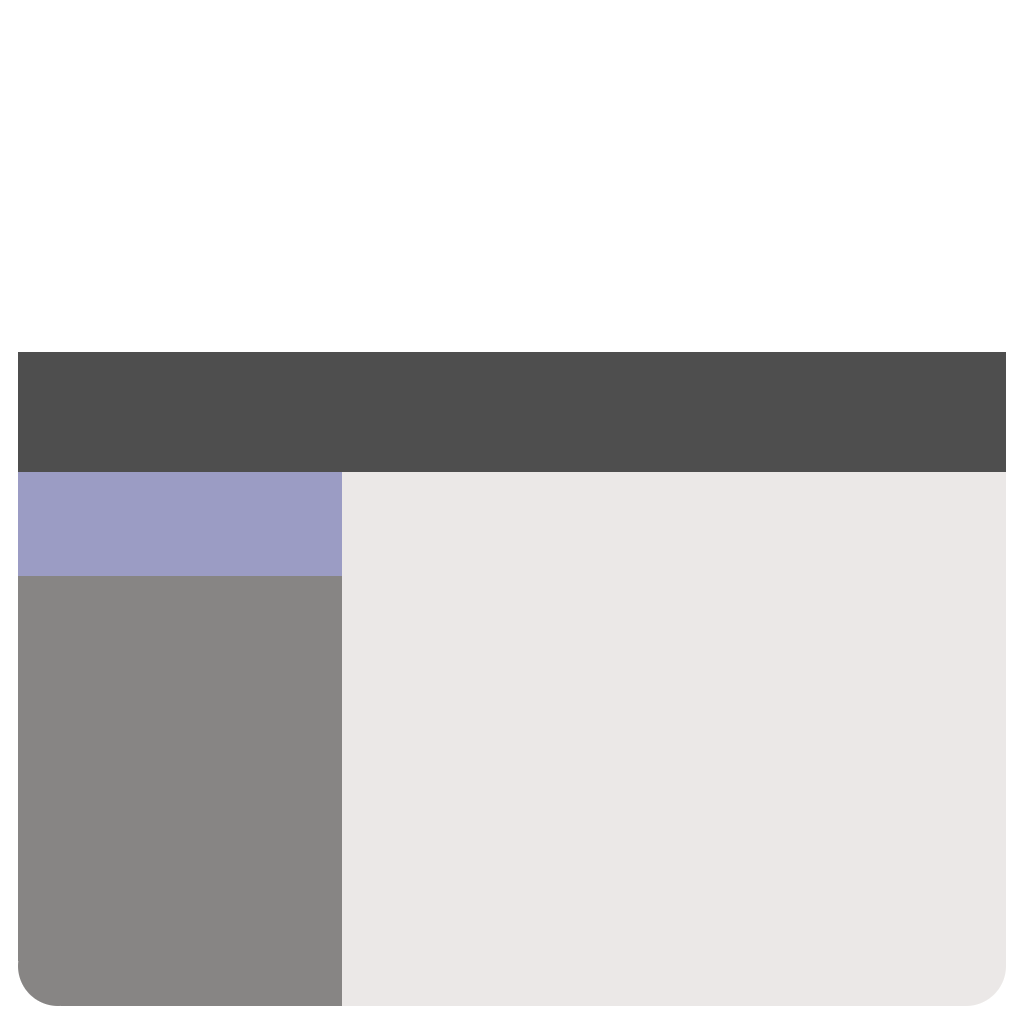
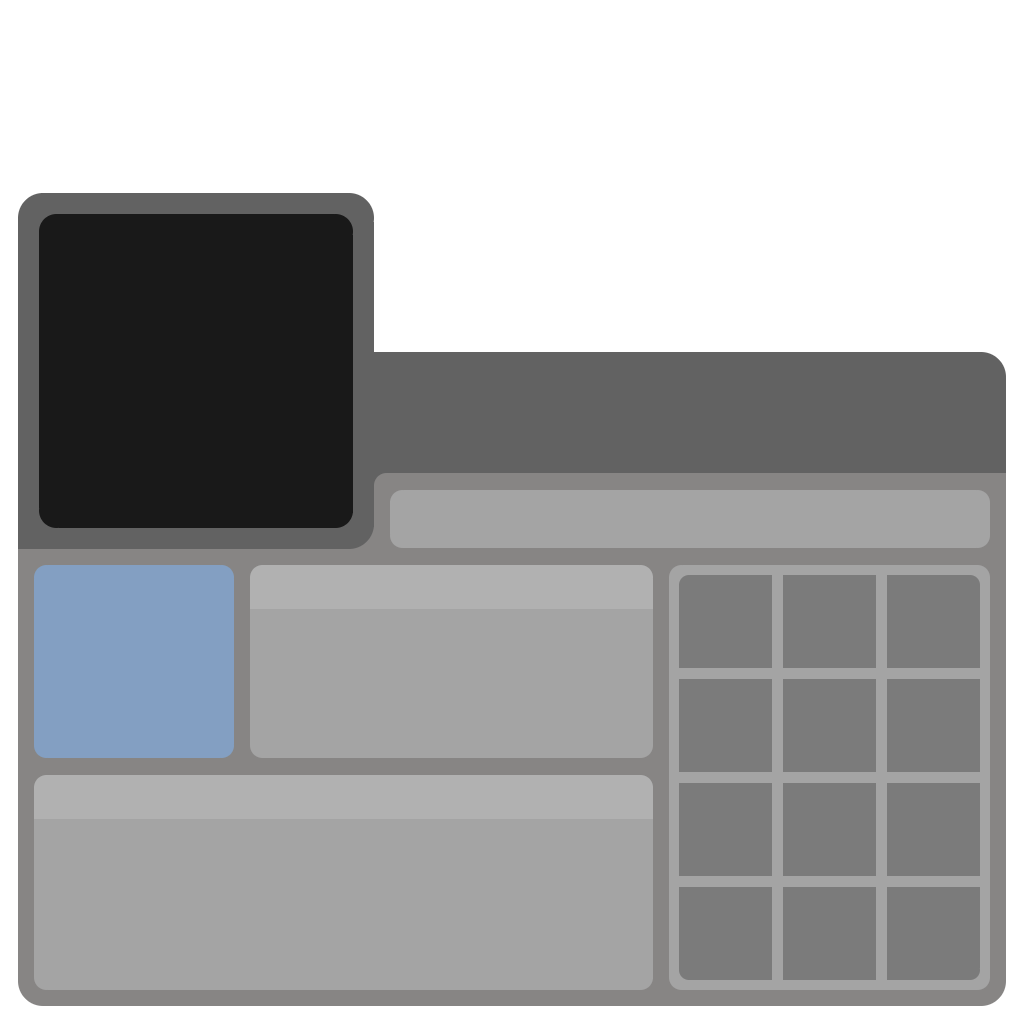
21/01/2018

diff --git a/commands/profil.js b/commands/profil.js
@@ -17,16 +17,17 @@ exports.run = async(client, message, args, level, now, mentionned) =>
     const nyas = client.nyas.get(cible.id) || { number: 0, timer: 0 }               // Chargement des nyas de la cible
     const calin = client.calin.get(cible.id) || { number: 0, timer: 0 }             // Chargement des calin reçu de la cible
     const exp = client.exp.get(cible.id) || { exp: 0, lvl: 0 }                      // Chargement des points d'xp de la cible
-    const avatar = cible.avatarURL.toString().replace("size=2048", "size=256")      // Chargement de l'avatar de la cible
-    const background = cible.avatarURL.toString().replace("size=2048", "size=1024") // Chargement de l'avatar de la cible pour le background ||TEST||
+    const avatar = cible.avatarURL.toString().replace("size=2048", "size=512")      // Chargement de l'avatar de la cible
+    const servicon = message.guild.iconURL.toString().replace(".jpg", ".png")       // Chargement de l'icone du serveur
+    //const background = cible.avatarURL.toString().replace("size=2048", "size=1024") // Chargement de l'avatar de la cible pour le background ||TEST||
 
     // Liste d'image pour Jimp
-    var images = [background,"layer1","layer2","exp1","exp2",avatar,"mask1","logo","box"]
+    var images = ["background","mask1","layer1","exp","mask2","mask3",avatar,"mask4","logo","box",servicon,"mask5"]
     var jimps = []
 
     for (var i = 0; i < images.length; i++) // Chargement de la lise
     {
-        if (images[i] === avatar || images[i] === background) {jimps.push(Jimp.read(images[i]))}
+        if (images[i] === avatar || images[i] === servicon) {jimps.push(Jimp.read(images[i]))}
         else {jimps.push(Jimp.read("profile/" + images[i] + ".png"))}
     }
 
@@ -47,8 +48,8 @@ exports.run = async(client, message, args, level, now, mentionned) =>
         // Recuperation et conversion des données de la cible
         const p_pseudo = cible.username
         const p_nickname = cible.nickname || " "
-        const p_nyas = "Nyas :" + nyas.number.toString()
-        const p_calin = "Calin :" + calin.number.toString()
+        const p_nyas = nyas.number.toString()
+        const p_calin = calin.number.toString()
         const p_lvl = "Lvl." + Math.floor(exp.lvl+1)
         const exp_now = Math.floor(exp.exp) - Math.floor(((exp.lvl)*(exp.lvl))*100)
         const exp_need = Math.floor(((exp.lvl+1)*(exp.lvl+1))*100) - Math.floor(((exp.lvl)*(exp.lvl))*100)
@@ -59,41 +60,54 @@ exports.run = async(client, message, args, level, now, mentionned) =>
             const exp_align = " ".repeat(30 - p_exp.length) // Centrage texte xp
             p_exp = exp_align.concat(p_exp)
         
-        data[4]
-            .resize(exp_size*6, 42, Jimp.RESIZE_BICUBIC) // Redimension exp1 selon le pourcentage d'xp
+        data[3]
+            .resize(exp_size*6, 58, Jimp.RESIZE_BICUBIC) // Redimension exp selon le pourcentage d'xp
+            .mask(data[4],0,0)                           // mask2    - arrondi barre xp
+            .mask(data[5],(exp_size*6)-10,0)             // mask3    - arrondi barre xp
 
-        data[0]
-            .resize(1024, 1024, Jimp.RESIZE_BICUBIC)
+        data[6]
+            .resize(314, 314, Jimp.RESIZE_BICUBIC)
+            .mask(data[7],0,0) // mask4    - arrondi avatar
+
+        data[10]
+            .resize(50, 50, Jimp.RESIZE_BICUBIC)
+            .mask(data[11],0,0) // mask5    - arrondi serveur icone
+
+        //data[0]
+        //    .resize(1024, 1024, Jimp.RESIZE_BICUBIC)
         
         data[0] //Images
-            .mask(data[6],0,0)              // masque1  - arrondi background
-            .composite(data[1],0,0)         // layer1   - fond transparent
-            .composite(data[2],0,0)         // layer2   - cadre avatar
-            .composite(data[3],356,500)     // exp1     - fond barre exp
-            .composite(data[4],376,506)     // exp2     - jauge exp
-            .composite(data[5],52,226)      // avatar   - image de profil
-            .composite(data[7],340,365)     // icone    - discord
+            .mask(data[1],0,0)               // mask1    - arrondi background
+            .composite(data[2],0,0)          // layer1   - fond transparent
+            .composite(data[3],390,490)      // exp      - barre exp
+            .composite(data[6],39,214)       // avatar   - image de profil
+            .composite(data[8],375,365)      // icone    - logo discord
+            .composite(data[10],375,415)     // icone    - logo serveur
 
         data[0] // Texte
-            .print(font, 400, 355, p_pseudo)    // pseudo
-            .print(font3, 405, 420, p_nickname) // surnom
-            .print(font, 100, 500, p_lvl)       // niveau
-            .print(font2, 434, 510, p_exp)      // xp
-            .print(font2, 414, 550, p_nyas)     // nyas
-            .print(font2, 414, 580, p_calin)    // calin
+            .print(font, 435, 355, p_pseudo)            // pseudo
+            .print(font3, 440, 420, p_nickname)         // surnom
+            .print(font, 60, 625, p_lvl)                // niveau
+            .print(font2, 434, 500, p_exp)              // xp
+            .print(font2, 275, 635, "Nyas :")           // nyas texte
+            .print(font2, 580, 635, p_nyas)             // nyas valeur
+            .print(font2, 275, 665, "Calins Reçus :")   // calin texte
+            .print(font2, 580, 665, p_calin)            // calin valeur
+            .print(font2, 365, 568, "Statistiques")     // stats
+            .print(font2, 265, 778, "Description")      // description
 
-
+//314
         if (cible.bot)
         {
             data[0] // Texte
-            .composite(data[8],335,285)
-            .print(font3, 353, 295, "BOT")
+            .composite(data[9],385,285)
+            .print(font3, 403, 295, "BOT")
         }
         else if (cible.permLevel === 10)
         {
             data[0] // Texte
-            .composite(data[8],335,285)
-            .print(font3, 353, 295, "DEV")
+            .composite(data[9],385,285)
+            .print(font3, 403, 295, "DEV")
         }
 
         data[0] //Sauvegarde et envois
